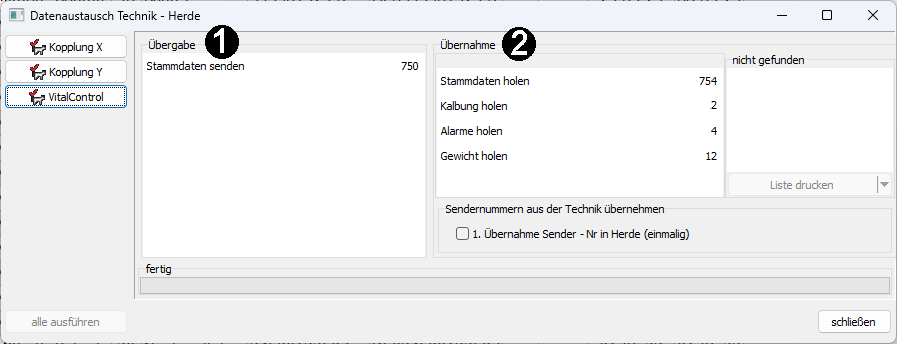
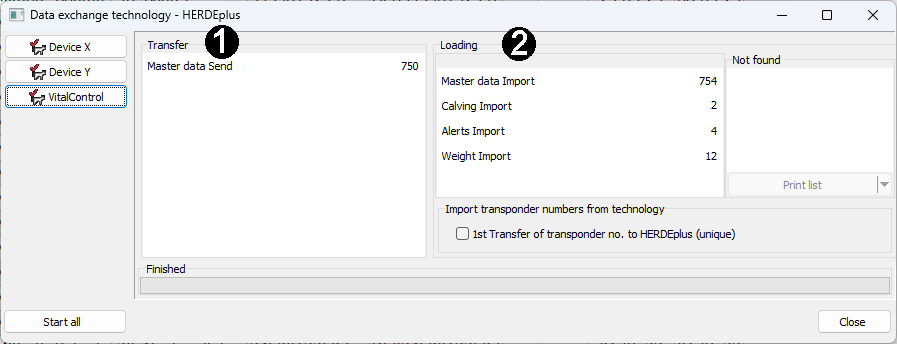
Data synchronisation Herde Plus: complete English version

diff --git a/content/de/docs/data-link/dsp-herde/data-exchange.md b/content/de/docs/data-link/dsp-herde/data-exchange.md
@@ -1,11 +1,12 @@
 ---
-title: Datenabgleich zwischen VitalControl und der Managementsoftware Herde
-linkTitle: Synchronisation
+title: Datenaustausch zwischen VitalControl und der Managementsoftware Herde
+linkTitle: Datenaustausch
 date: 2023-08-04T12:22:12+02:00
 draft: false
 description: >
   Importieren Sie den Tierbestand von der Herde Software auf das VitalControl und spielen sie mit dem VitalControl erfasste Daten in Herde ein.
 weight: 20
+slug: datenaustausch
 Kategorien: [Datenaustausch, DSP Herde]
 ---
 Gehen Sie wie folgt vor, um Daten zwischen der Herde Software und dem VitalControl abzugleichen:
@@ -20,28 +21,28 @@ Gehen Sie wie folgt vor, um Daten zwischen der Herde Software und dem VitalContr
 
 ### Vollständigen Datentausch durchführen
 
-1. Weisen Sie die Herde-Software an, einen Datenaustausch durchzuführen. Je nach Konfiguration ihrer Benutzeroberfläche erreichen Sie den entsprechenden Menüpunkt `Datentausch` im Hauptmenü (Menüpunkt _Technik_),  in der Seitenleiste oder in der angepassten Werkzeugleiste (horizontal oder vertikal).
+1. Weisen Sie die Herde-Software an, einen Datenaustausch durchzuführen. Je nach Konfiguration ihrer Benutzeroberfläche erreichen Sie den entsprechenden Menüpunkt `Datentausch` im Hauptmenü (Menüpunkt _Technik_), in der Seitenleiste oder in der angepassten Werkzeugleiste (horizontal oder vertikal).
 
    ![Herde Software: Aufruf der Funktion Datenaustausch](../screenshots/datentausch.png "Herde: Aufruf Datenaustausch")
 
 1. Es öffnet sich ein Pop-up, in dessen linker Seitenleiste die eingerichteten Technikkopplungen aufgelistet sind. Klicken Sie auf den Eintrag `VitalControl`, um den Datenaustausch zu starten:
 
-   ![Datenaustausch mit Herde Software: Warnhinweis](../screenshots/start-kopplung.png "Herde: Start Datenaustausch")
+   ![Herde Software: Datenaustausch starten](../screenshots/start-kopplung.png "Herde: Start Datenaustausch")
 
 1. Beim erstmaligen Datenaustausch erscheint ein Warnhinweis, dass noch keine Tiere auf dem VitalControl angelegt sind. Quittieren Sie diesen Hinweis mit `Ja`. Der Datenaustausch wird gestartet.
 
-   ![Herde Software: Datenaustausch starten](../screenshots/warnmeldung.png "Herde: Start Datenaustausch")
+   ![Herde Software, Datenaustausch: Warnhinweis](../screenshots/warnmeldung.png "Datenaustausch: Warnhinweis")
 
-1. Der Datenaustausch ist ein zweistufiger Prozess: Im ersten Schritt ➊ werden die Stamm- bzw. Tierdaten von der `Herde`-Software an das VitalControl übergeben. Im zweiten Schritt ➋ werden die mit dem VitalControl erfassten Daten von der `Herde`-Software eingelesen. Die Anzahl der übergebenen Datensätze (Tiere, Abkalbungen, Technikalarme und Gewichte) ist in dem Popup aufgeführt:  
+1. Der Datenaustausch ist ein zweistufiger Prozess: Im ersten Schritt ➊ werden die Stamm- bzw. Tierdaten von der `Herde`-Software an das VitalControl übergeben. Im zweiten Schritt ➋ werden die mit dem VitalControl erfassten Daten von der `Herde`-Software eingelesen. Die Anzahl der übergebenen Datensätze (Tiere, Abkalbungen, Technikalarme und Gewichte) ist in dem Popup aufgeführt:
 
    ![Datenaustausch mit Herde Software: Ablauf](../screenshots/ablauf-kopplung.png "Herde: Ablauf Datenaustausch")
 
-1. Der erfolgreiche Abschluss der Datentausches wird über eine Popup mit einer Erfolgsmeldung signalisiert.
+1. Der erfolgreiche Abschluss der Datentausches wird über ein Popup mit einer Erfolgsmeldung signalisiert.
 
-   ![Herde Software: Erfolgsmeldung Datenaustausch](../screenshots/erfolgsmeldung.png "Herde: Erfolgsmeldung Datenaustausch")   
+   ![Herde Software: Erfolgsmeldung Datenaustausch](../screenshots/erfolgsmeldung.png "Herde: Erfolgsmeldung Datenaustausch")
 
     {{% alert title="Achtung" %}}
-Falls viele Tiere übertragen sollen, kann der Importvorgang eine gewisse Zeitspanne in Anspruch nehmen. Den Fortschritt des Datenimports können Sie dabei dem Display des VitalControl-Geräts entnehmen.
+Falls viele Tiere übertragen sollen, kann der Datenaustausch eine gewisse Zeitspanne in Anspruch nehmen. Den Fortschritt der Datenübertragung können Sie dabei dem Display des VitalControl-Geräts entnehmen.
 
 ![Datensynchronisation mit Herde, Fortschrittsanzeige](../../vcsynchronizer/images/tierimport/datenuebertragung.png "VitalControl: Fortschritt Datenübertragung")
     {{% /alert %}}

diff --git a/content/en/docs/data-link/dsp-herde/data-exchange.md b/content/en/docs/data-link/dsp-herde/data-exchange.md
@@ -1,0 +1,47 @@
+---
+title: Data exchange between VitalControl and herd management software Herde
+linkTitle: Data exchange
+date: 2023-08-04T12:22:12+02:00
+draft: false
+description: >
+  Synchronize the animals stored on VitalControl device with animals managed by *Herde* software and transfer measured values recorded with VitalControl device to *Herde* software.
+weight: 20
+categories: [Data exchange, DSP Herde]
+---
+Follow the steps below to synchronize data between the software `Herde` and VitalControl device:
+
+### Connect VitalControl to PC
+
+1. Connect the VitalControl device to your computer or laptop via the supplied USB cable.
+
+   ![Connect VitalControl to PC or laptop](/images/synchronisation/connect-to-pc.svg "Connect VitalControl to PC")
+
+1. Make sure your VitalControl device is turned on.
+
+### Perform data exchange
+
+1. Within the software `Herde`, perform a full data exchange. Depending on the configuration of your user interface, you can invoke this exchange via the menu item `Full data exchange` in the main menu (top level item _Technology_), in the sidebar menu or in your customized toolbox (horizontal oder vertical).
+
+   ![Software Herde: Triggering a full data exchange](../screenshots/data-exchange.png "Herde: Triggering data exchange")
+
+1. A pop-up opens, listing the stipulated technology couplings in the sidebar to the left. Click on the button labeled `VitalControl` in order to start the data exchange:
+
+   ![Software Herde, Starting data exchange](../screenshots/start-transfer.png "Herde: Start data exchange")
+
+1. On first time data exchange a warning appears, indicating that there are no animals registered on the VitalControl device yet. Acknowledge this notice with `Yes`. Data exchange is started then.
+
+   ![Software Herde, data exchange: warning](../screenshots/warning.png "Data exchange: warning")
+
+1. Data exchange is a two-step process: In the first step ➊ the animal data are transferred from software `Herde` to the VitalControl. In the second step ➋, measurement data collected with the VitalControl are transferred into software `Herde`. The number of imported data sets (animals, calvings, alerts and weights) is listed in the pop-up:
+
+   ![Data exchange with software Herde: Course of actions](../screenshots/data-transfer.png "Data exchange: Course of actions")
+
+1. Successful completion of data exchange is signalled via a pop-up with a success message.
+
+   ![Software Herde: Success message data exchange](../screenshots/success-message.png "Herde: Success message data exchange")
+
+    {{% alert title="Attention" %}}
+If many animals are registered on the VitalControl device, data exchange may take some time. The progress of the data transfer can be seen on the display of the device.
+
+![VitalControl, data exchange: progress bar](../../vcsynchronizer/images/import-animals/data-transfer.png "VitalControl: progress bar data exchange")
+    {{% /alert %}}

diff --git a/content/de/docs/data-link/hi-tier/animal-import.md b/content/de/docs/data-link/hi-tier/animal-import.md
@@ -49,12 +49,12 @@ Falls Sie in der Liste ihrer Anwendungen den Eintrag `Urban VitalControl` nicht 
    
 1. Es öffnet sich ein DOS-Fenster, der Importvorgang wird gestartet. Es werden mehrere Abfragen gestellt, anhand derer sie Angaben zum Umfang des Tierimports festlegen können. Hierbei werden abgefragt:
 
-   - ➀ **Geschlecht** der zu importierenden Tiere:  
+   - ➀ **Geschlecht** der zu importierenden Tiere:
      Drücken Sie hier `M` oder `W` um nur **m**ännliche bzw. **w**eibliche Tiere zu importieren oder drücken Sie `OK` um alle Tiere zu berücksichtigen)
-   - ➁ **Mindest-** und ➂ **Maximalalter** der zu importierenden Tiere  
-     Geben Sie hier jeweils entweder einen Zahlenwert (in Tagen) an oder drücken Sie `OK` wenn Sie keine Alterbeschränkung wünschen.  
-   - ➃ **Zugangsdatum** der zu importierenden Tiere  
-     Geben Sie hier das Meldedatum der zu importierenden Tiere (im Format `Tag-Monat-Jahr`) an oder drücken Sie `OK` um ohne Datumsbeschränkung fortzufahren.  
+   - ➁ **Mindest-** und ➂ **Maximalalter** der zu importierenden Tiere
+     Geben Sie hier jeweils entweder einen Zahlenwert (in Tagen) an oder drücken Sie `OK` wenn Sie keine Alterbeschränkung wünschen.
+   - ➃ **Zugangsdatum** der zu importierenden Tiere
+     Geben Sie hier das Meldedatum der zu importierenden Tiere (im Format `Tag-Monat-Jahr`) an oder drücken Sie `OK` um ohne Datumsbeschränkung fortzufahren.
      <br>
 
    ![DOS-Fenster, Import des Tierbestandes aus HI-Tier](../../vcsynchronizer/images/tierimport/ablauf-import.png "DOS-Fenster, Import Tierbestand")

diff --git a/content/en/docs/diagnosis/hardware.md b/content/en/docs/diagnosis/hardware.md
@@ -17,7 +17,7 @@ If there is a malfunction on your device, you should first perform a hardware ch
 
 1. Invoke the submenu `Service`, select the menu item `Check device drivers` and confirm with `OK`.
 
-The device now lists all hardware components of the device, together with their status. Ideally, all components listed should show a green dot on the far right; this signals a functioning component. If a red dot is shown  for a component, this indicates that the corresponding component is defective. In this case, the device must be returned to the manufacturer for service.
+The device now lists all hardware components of the device, together with their status. Ideally, all components listed should show a green dot on the far right; this signals a functioning component. If a red dot is shown for a component, this indicates that the corresponding component is defective. In this case, the device must be returned to the manufacturer for service.
 
    ![VitalControl: Menu path Check of hardware components](../images/device-check.png "Hardware check")
 

diff --git a/content/de/docs/datenexport/data-files.md b/content/de/docs/datenexport/data-files.md
@@ -97,7 +97,7 @@ Die folgende Tabelle listet die einzelnen Spalten der Tabelle mit den Körpertem
 | 2 | `Farm-ID-Animal`      | Stallnummer des gemessenen Tieres       | 2- bis 6-stellig, oft zugleich auch Halsbandnummer |
 | 3 | `Date`                | Datum der Temperaturmessung             | Format: `JJJJ-MM-TT` (`Jahr-Monat-Tag`)            |
 | 4 | `Time`                | Uhrzeit der Temperaturmessung           | Format: `HH-MM-SS` (`Stunde:Minute:Sekunde`)       |
-| 5 | `Temperature-Celsius` | Gemessener Temperaturwert               | Einheit: `Grad Celsius`                              |
+| 5 | `Temperature-Celsius` | Gemessener Temperaturwert               | Einheit: `Grad Celsius`                            |
 
 Ggf. können Sie auch die bereit gestellte Beispieldatei [temperatures.csv][] herunterladen. Untenstehende Abbildung zeigt diese Datei geöffnet in einem Tabellenkalkulationsprogramm.
 

diff --git a/content/en/docs/data-export/data-files.md b/content/en/docs/data-export/data-files.md
@@ -64,7 +64,7 @@ The following table lists and describes each column of the animal data table:
 | 3 | `Transponder-ID`     | Transponder number              | may be missing , may be identical with national animal ID |
 | 4 | `DateOfBirth`        | Date of birth                   | Format: `YYYY-MM-TT` (`Year-Month-Day`)                   |
 | 5 | `Sex`                | Sex                             | _Values:_ `M`: male, `F`: female, `?`: unknown            |
-| 6 | `BirthWeight-Kg`     | Birth weight                    | Unit: `kilogram`, maybe not recorded / missing                 |
+| 6 | `BirthWeight-Kg`     | Birth weight                    | Unit: `kilogram`, maybe not recorded / missing            |
 
 [ISO1174/85]: https://en.wikipedia.org/wiki/ISO_11784_and_ISO_11785
 

diff --git a/content/en/docs/diagnosis/rfid-scan.md b/content/en/docs/diagnosis/rfid-scan.md
@@ -22,7 +22,7 @@ Using the menu 'Range test' you can determine whether VitalControl device can re
 
 1.  Slowly approach your transponder to the reading head of the VitalControl device. To achieve a good reading result, the transponder must be aligned horizontally to the reading head of the VitalControl device.
 
-    ![ VitalControl:  correctly approach transponder to RFID reading head](/images/diagnosis/transponderscan.svg "Correct transponder scan")
+    ![ VitalControl: correctly approach transponder to RFID reading head](/images/diagnosis/transponderscan.svg "Correct transponder scan")
 
 1. As soon as the RFID scanner detects the transponder, a vibration alarm is triggered and the background color of the transponder image displayed on the screen changes to green:
 

diff --git a/content/en/docs/backup/backup.md b/content/en/docs/backup/backup.md
@@ -26,7 +26,7 @@ tags: [backup file, USB flash drive]
 
    ![VitalControl: success message backup](../images/backup-done.png "Success data backup")
 
-5. The data backup is now created. You will find the created file `backup.vcu` in the directory `backup` on your USB flash drive.  The backup file requires approx. 1 MB of storage space on the flash drive.
+5. The data backup is now created. You will find the created file `backup.vcu` in the directory `backup` on your USB flash drive. The backup file requires approx. 1 MB of storage space on the flash drive.
 
    ![USB flash drive with backup file VitalControl](../images/backup-file.png "USB flash drive with backup file")
 

diff --git a/content/de/docs/firmware/update.md b/content/de/docs/firmware/update.md
@@ -4,7 +4,7 @@ linkTitle: Aktualisierung
 weight: 20
 description: >
   Mit einem Firmware-Update aktualisieren Sie die auf dem Gerät installierte Software.
-kategorien: [Firmware]  
+kategorien: [Firmware]
 ---
 Vergewissern Sie sie zunächst, ob für ihr Gerät eine [neuere Firmware-Version](../versionen/) vorhanden ist, und aktualisieren Sie ggf. die Firmware Ihres Gerätes gemäß der folgenden Anleitung.
 

diff --git a/content/en/docs/data-export/_index.md b/content/en/docs/data-export/_index.md
@@ -5,5 +5,5 @@ date: 2023-07-20
 weight: 30
 description: >
   Export animal data and measurement values on the VitalControl to CVS data files.
-translationKey: data-export  
+translationKey: data-export
 ---
